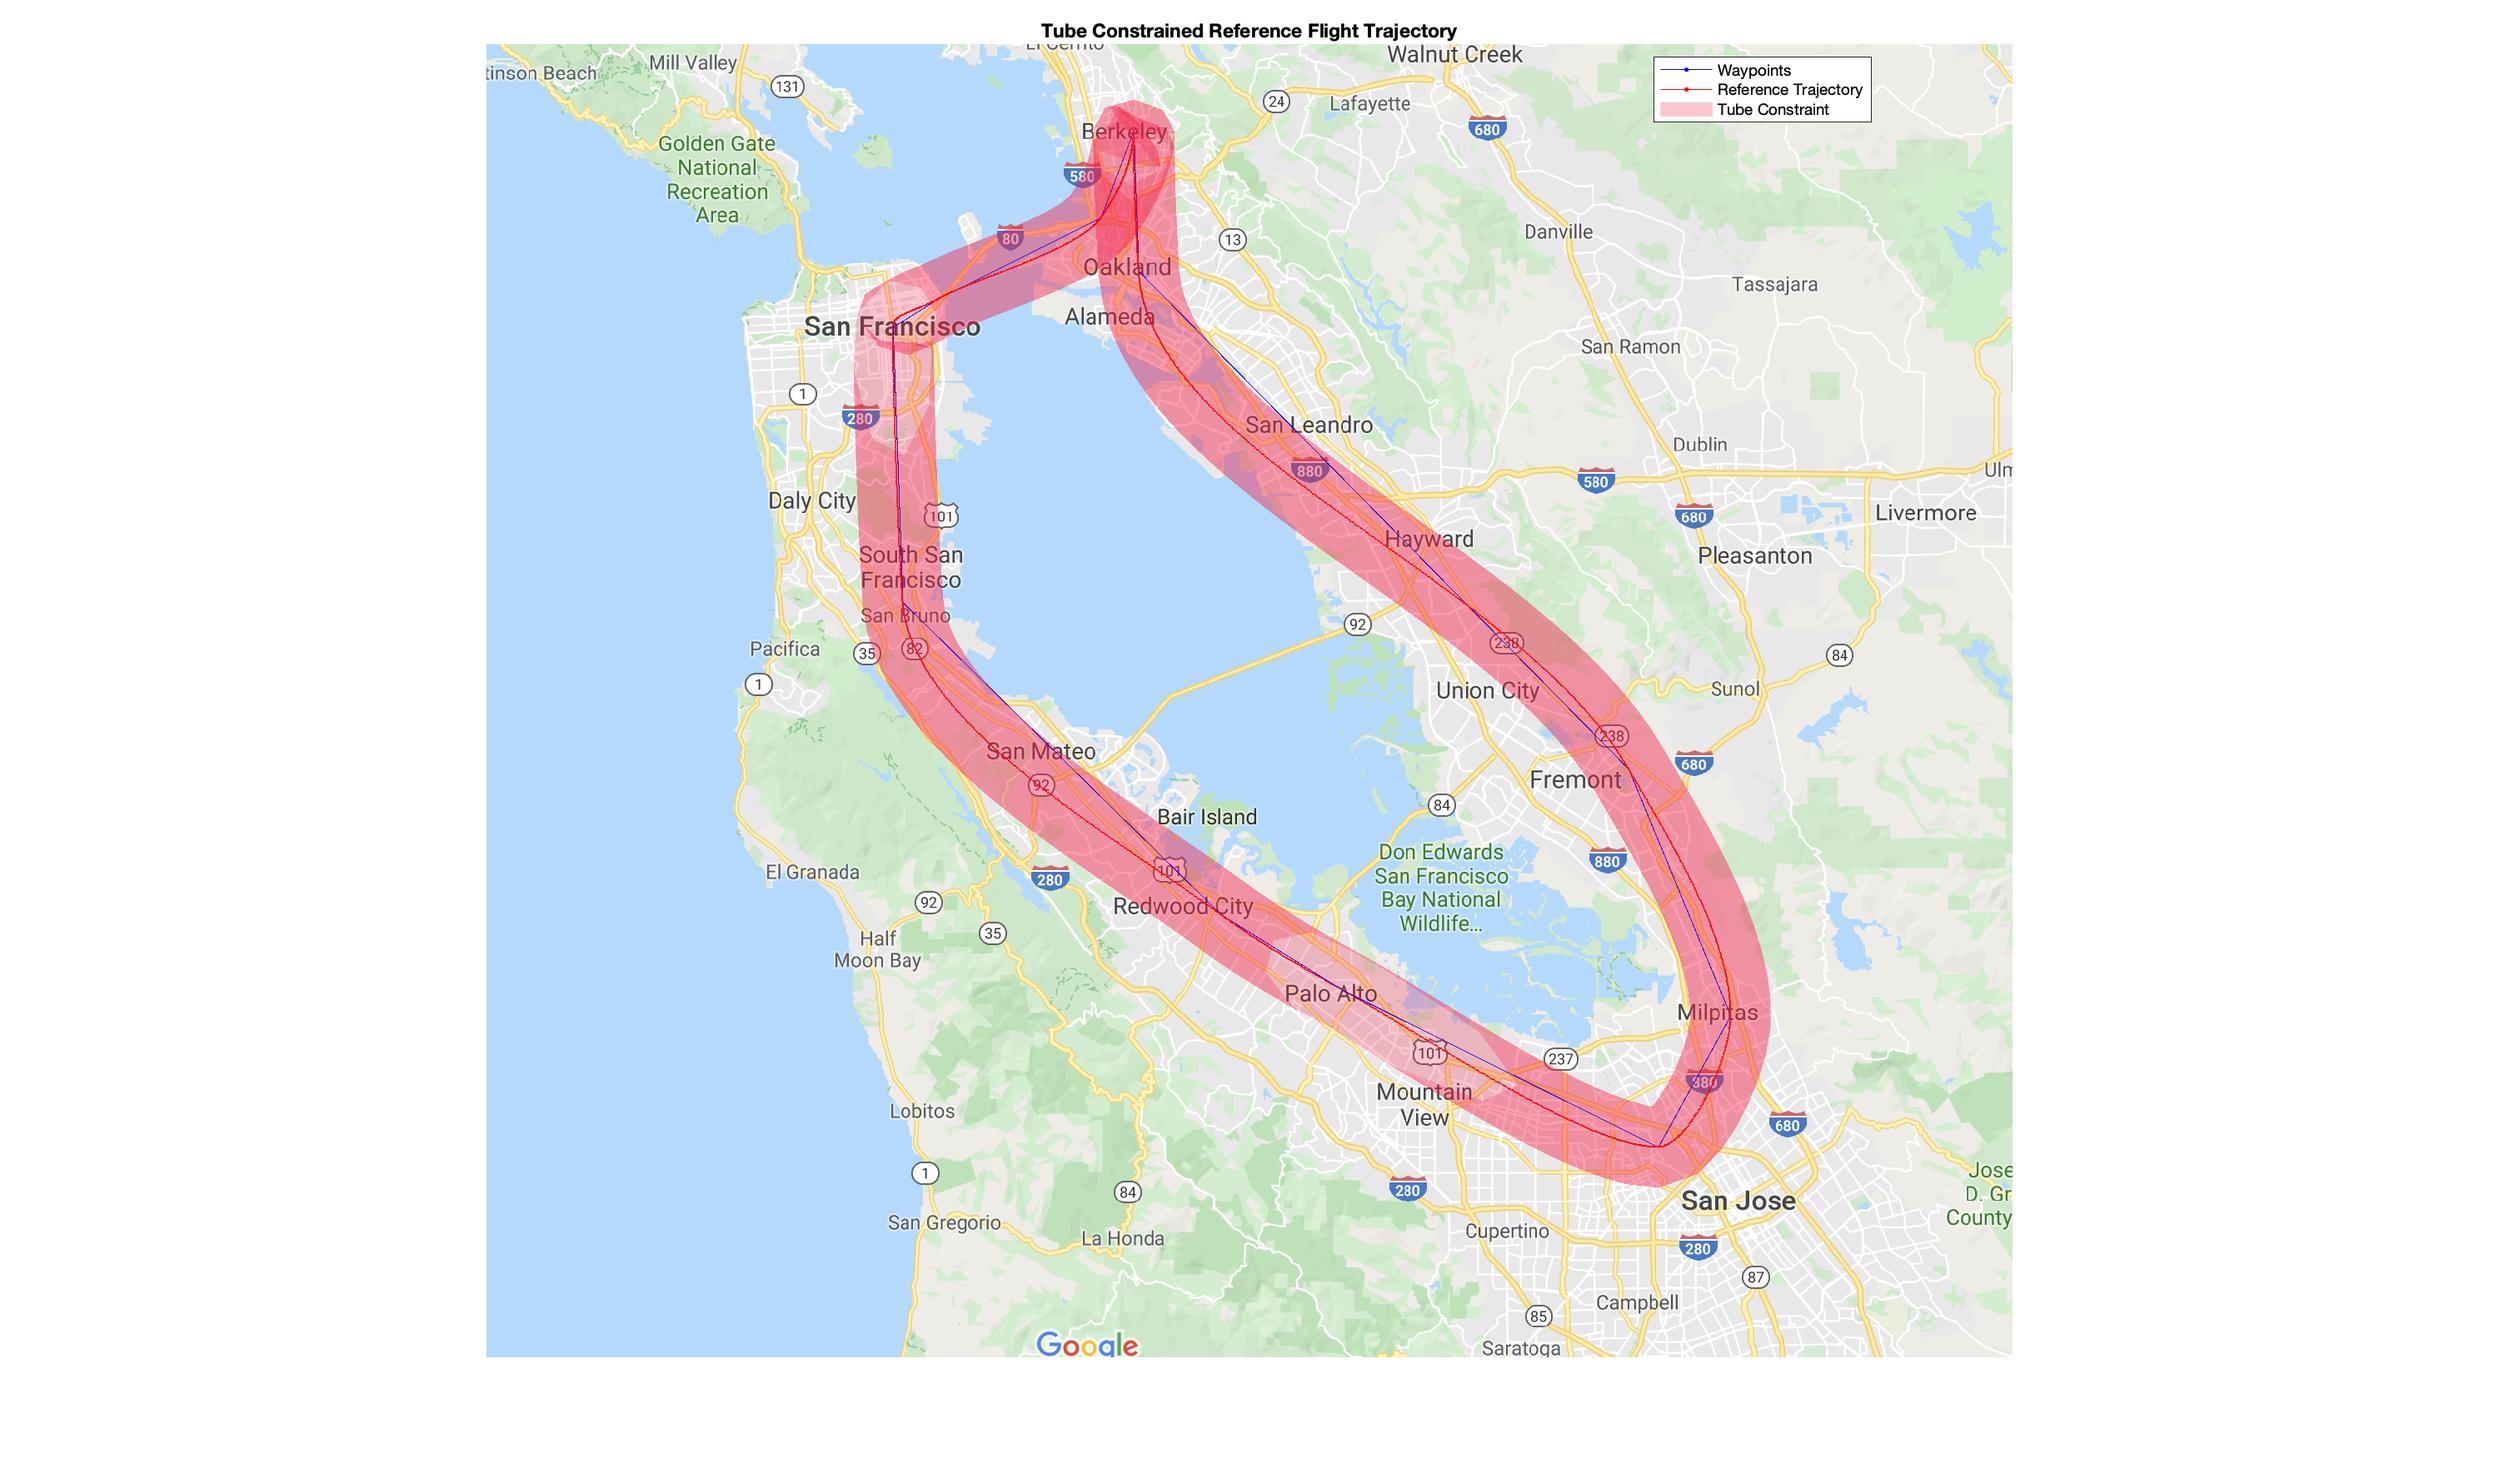
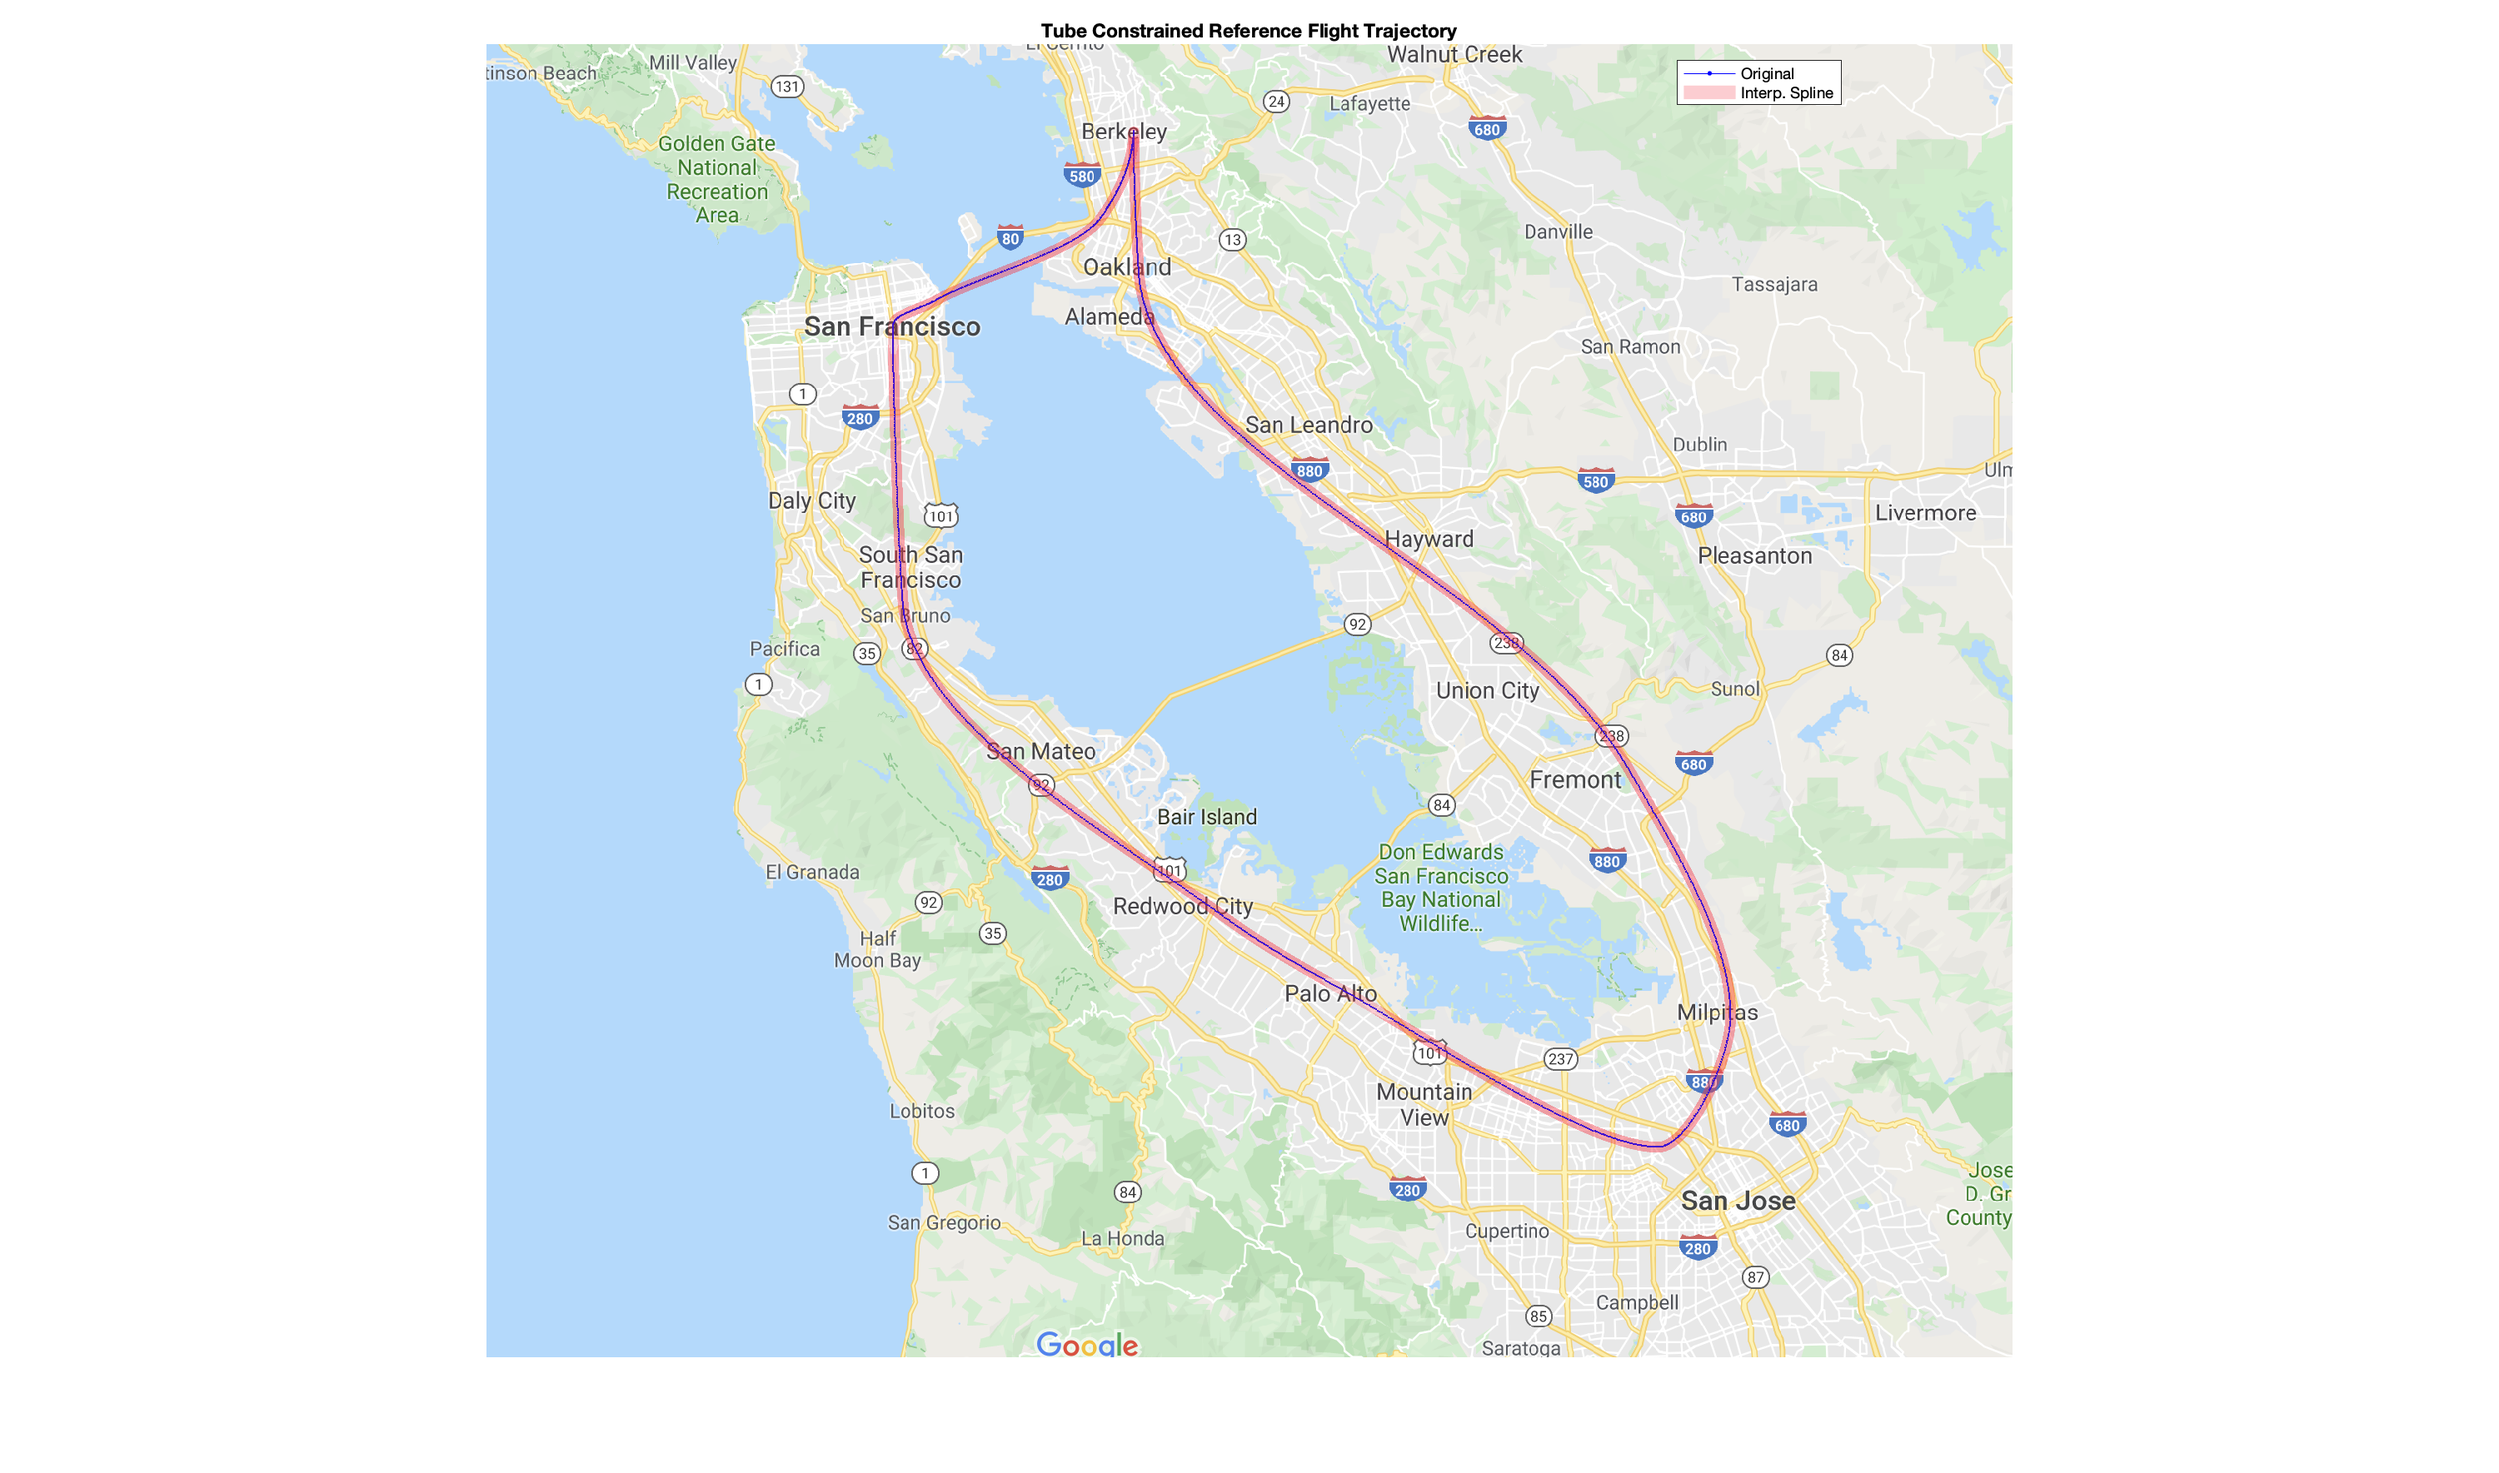
plotting tube function and plots.

Changed region(s): [[0.341, 0.0622, 0.713, 0.8084], [0.651, 0.0311, 0.744, 0.0933]]

diff --git a/Trajectory/TubePlot/tubeplot.m b/Trajectory/TubePlot/tubeplot.m
@@ -1,0 +1,88 @@
+function [x,y,z]=tubeplot(curve,r,n,ct)
+% Usage: [x,y,z]=tubeplot(curve,r,n,ct)
+% 
+% Tubeplot constructs a tube, or warped cylinder, along
+% any 3D curve, much like the build in cylinder function.
+% If no output are requested, the tube is plotted.
+% Otherwise, you can plot by using surf(x,y,z);
+%
+% Example of use:
+% t=linspace(0,2*pi,50);
+% tubeplot([cos(t);sin(t);0.2*(t-pi).^2],0.1);
+% daspect([1,1,1]); camlight;
+%
+% Arguments:
+% curve: [3,N] vector of curve data
+% r      the radius of the tube
+% n      number of points to use on circumference. Defaults to 8
+% ct     threshold for collapsing points. Defaults to r/2 
+%
+% The algorithms fails if you have bends beyond 90 degrees.
+% Janus H. Wesenberg, july 2004
+
+  if nargin<3 || isempty(n), n=8;
+     if nargin<2, error('Give at least curve and radius');
+    end;
+  end;
+  if size(curve,1)~=3
+    error('Malformed curve: should be [3,N]');
+  end;
+  if nargin<4 || isempty(ct)
+    ct=0.5*r;
+  end
+
+  
+  %Collapse points within 0.5 r of each other
+  npoints=1;
+  for k=2:(size(curve,2)-1)
+    if norm(curve(:,k)-curve(:,npoints))>ct;
+      npoints=npoints+1;
+      curve(:,npoints)=curve(:,k);
+    end
+  end
+  %Always include endpoint
+  if norm(curve(:,end)-curve(:,npoints))>0
+    npoints=npoints+1;
+    curve(:,npoints)=curve(:,end);
+  end
+
+  %deltavecs: average for internal points.
+  %           first strecth for endpoitns.
+  dv=curve(:,[2:end,end])-curve(:,[1,1:end-1]);
+
+  %make nvec not parallel to dv(:,1)
+  nvec=zeros(3,1);
+  [buf,idx]=min(abs(dv(:,1))); nvec(idx)=1;
+
+  xyz=repmat([0],[3,n+1,npoints+2]);
+  
+  %precalculate cos and sing factors:
+  cfact=repmat(cos(linspace(0,2*pi,n+1)),[3,1]);
+  sfact=repmat(sin(linspace(0,2*pi,n+1)),[3,1]);
+  
+  %Main loop: propagate the normal (nvec) along the tube
+  for k=1:npoints
+    convec=cross(nvec,dv(:,k));
+    convec=convec./norm(convec);
+    nvec=cross(dv(:,k),convec);
+    nvec=nvec./norm(nvec);
+    %update xyz:
+    xyz(:,:,k+1)=repmat(curve(:,k),[1,n+1])+...
+        cfact.*repmat(r*nvec,[1,n+1])...
+        +sfact.*repmat(r*convec,[1,n+1]);
+  end;
+  
+  %finally, cap the ends:
+  xyz(:,:,1)=repmat(curve(:,1),[1,n+1]);
+  xyz(:,:,end)=repmat(curve(:,end),[1,n+1]);
+  
+  %,extract results:
+  x=squeeze(xyz(1,:,:));
+  y=squeeze(xyz(2,:,:));
+  z=squeeze(xyz(3,:,:));
+  
+  %... and plot:
+  %if nargout<3, 
+  s = surf(x,y,z,'FaceAlpha',0.25,'FaceColor',[0.9525 0.217  0.276]); s.EdgeColor = 'none';  
+%end;
+  
